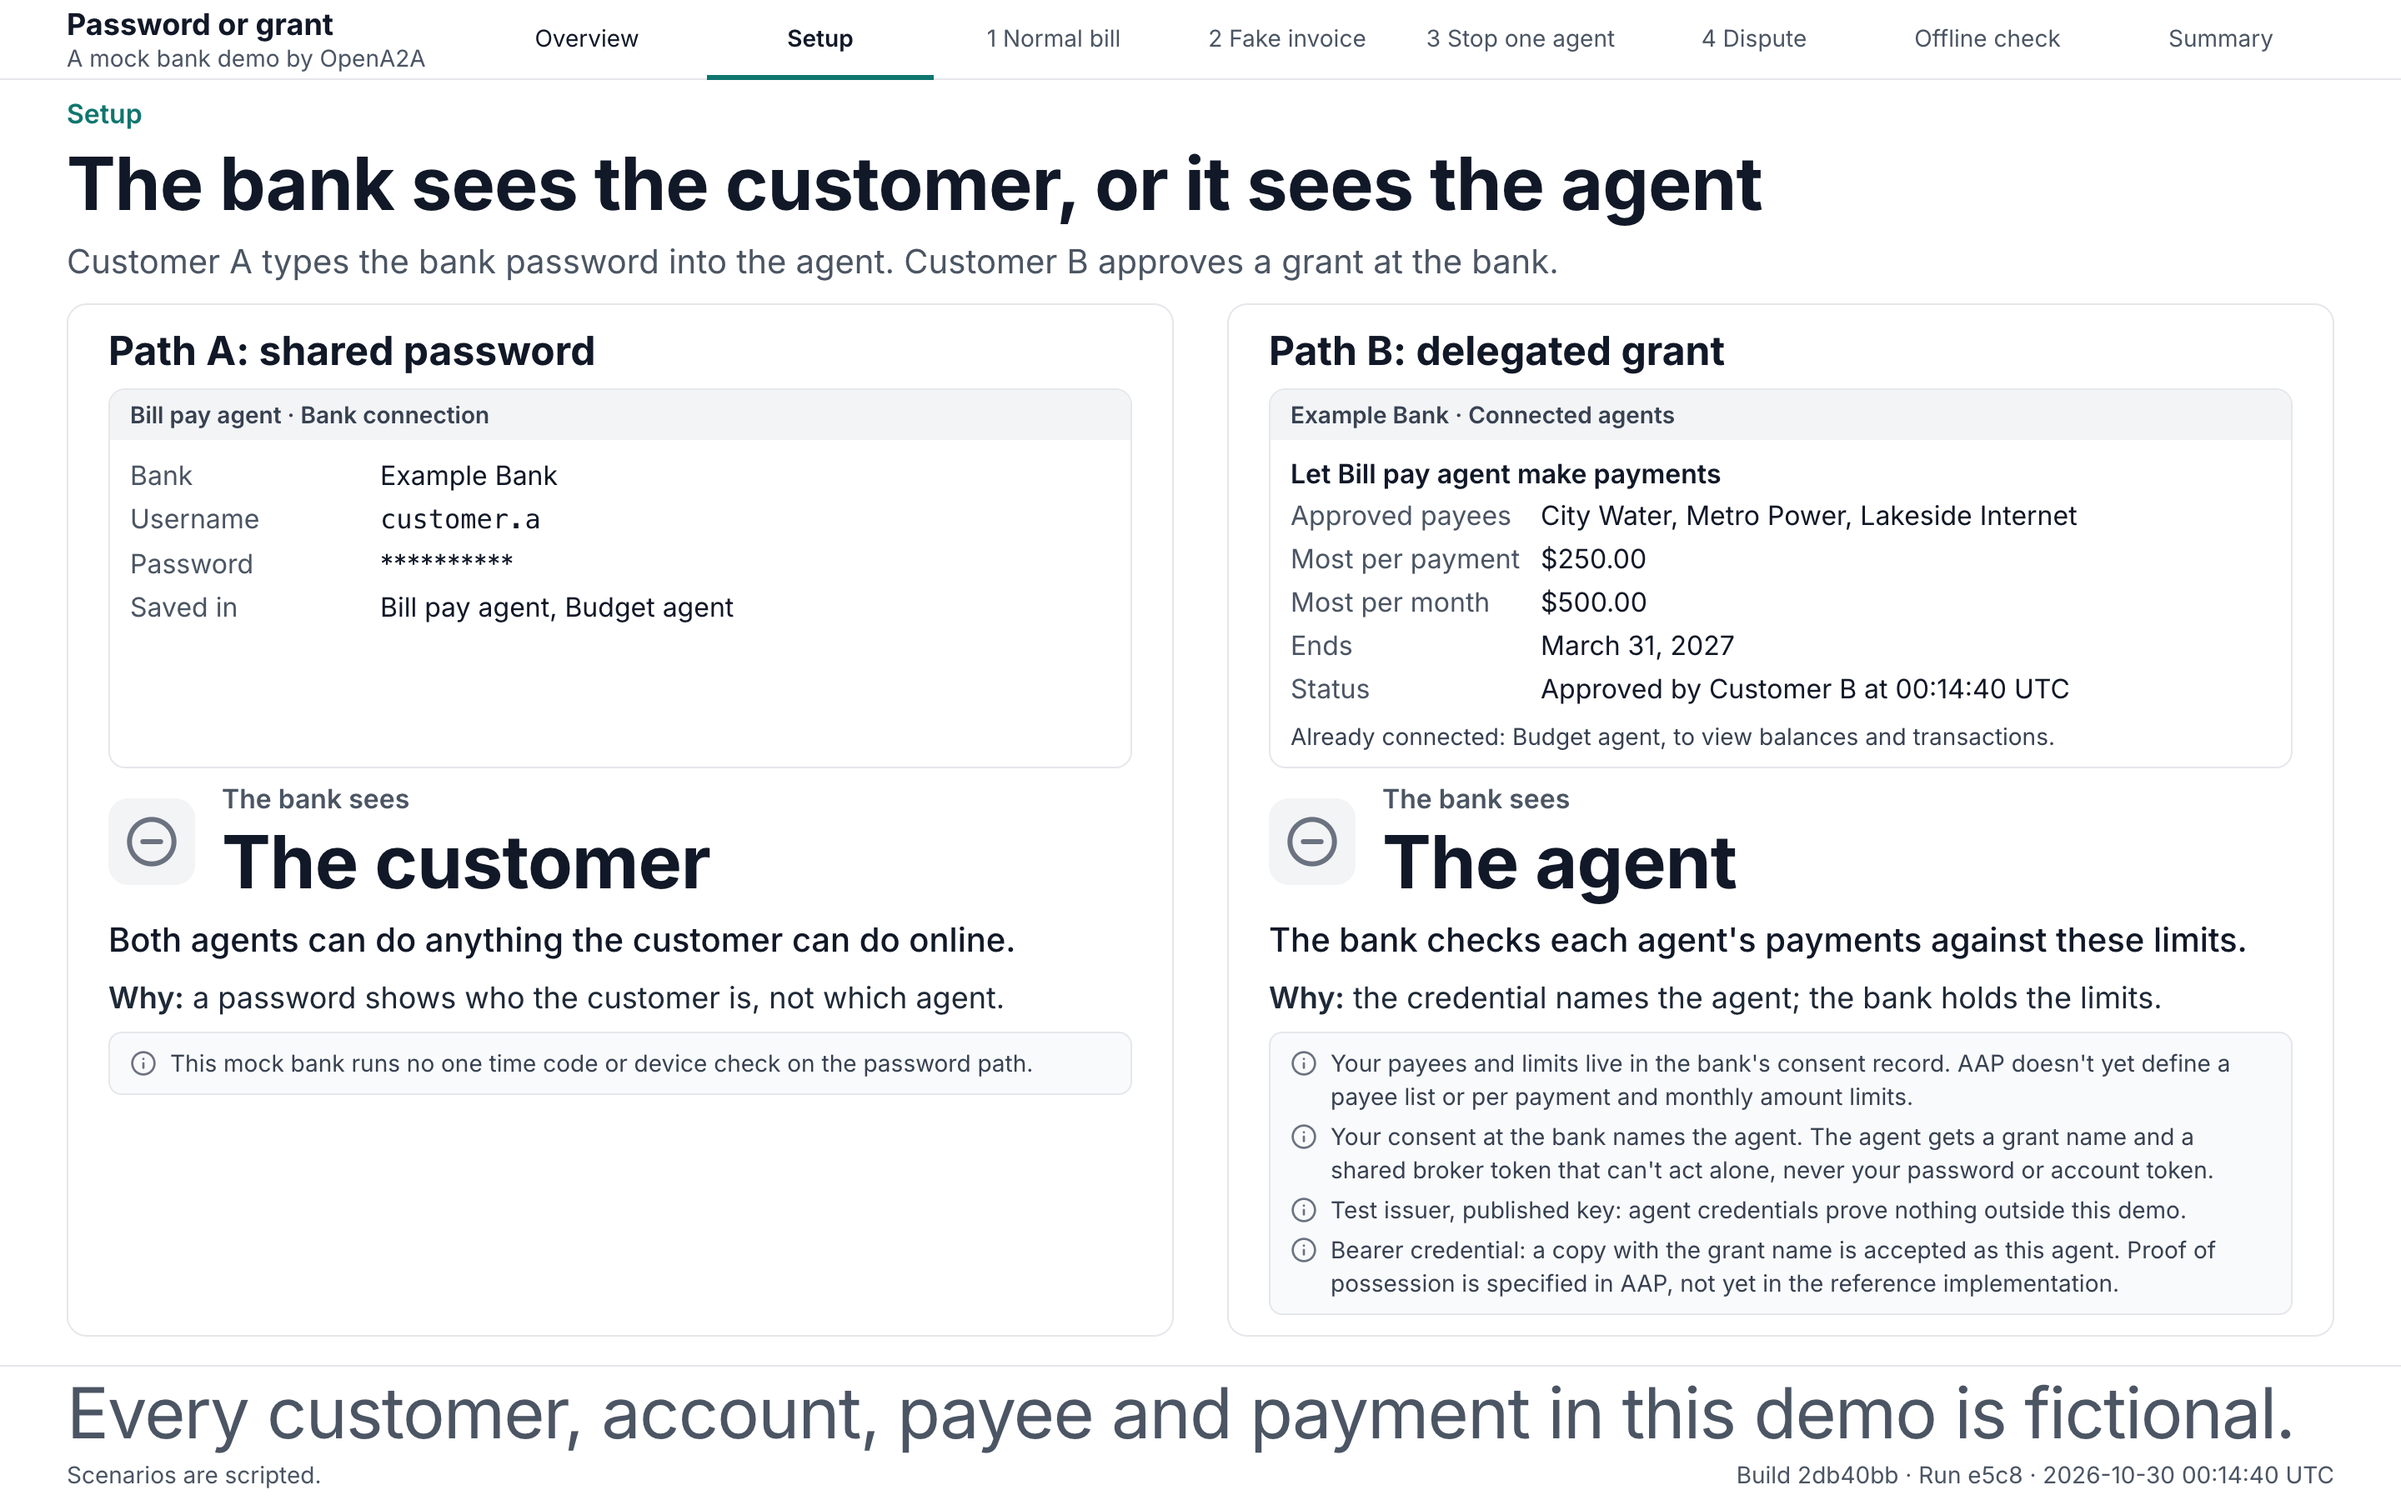
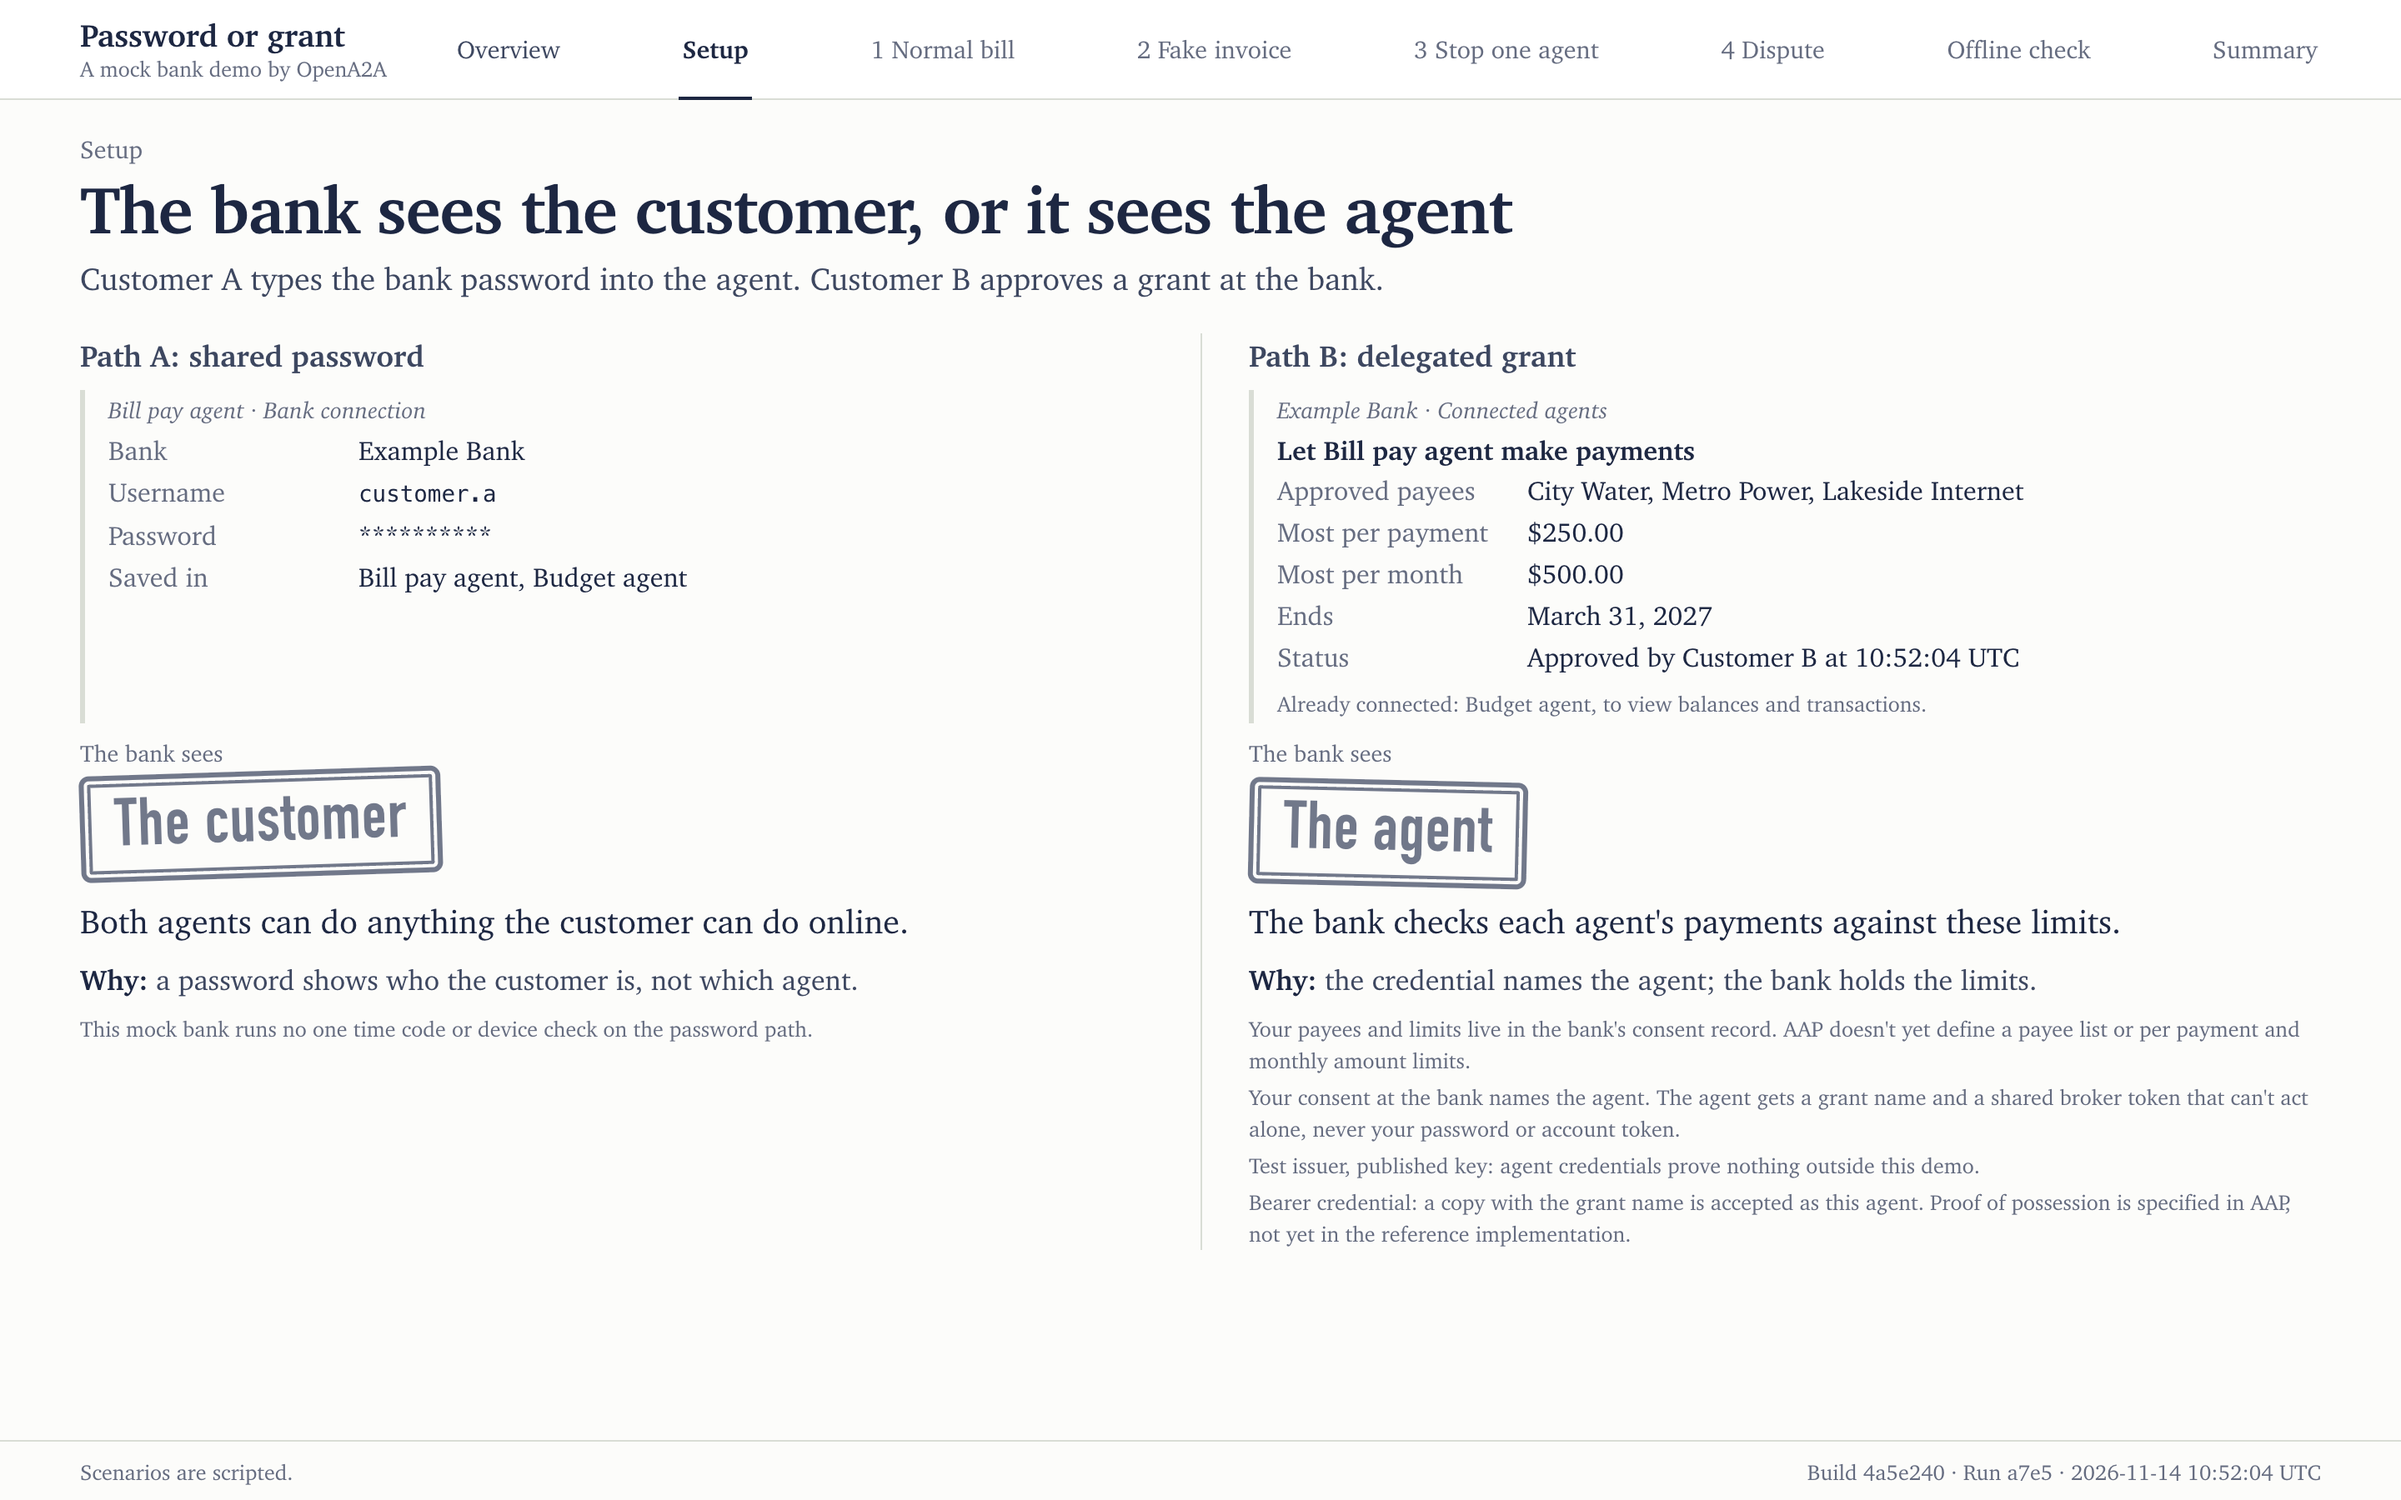
docs: retake the nine stills and the recording on the statement screens
The stills, the npm start capture, the Fake invoice GIF and its two caption
tracks are taken again by docs/demo/walkthrough.demo.mjs at commit 4a5e240,
2026-11-14, in Chrome 157.0.8103.51; every proof held. The README and
docs/walkthrough.md labels name that commit and date, the requirements line
names the machine and Chrome of this run, and the sidecar rows are rewritten
from the new sidecars.

diff --git a/docs/walkthrough.md b/docs/walkthrough.md
@@ -1,57 +1,57 @@
 # The walkthrough, screen by screen
 
-The nine screens of the walkthrough in presenter order. Every screen here was captured from this repository at commit 2db40bb, 2026-10-30, on the scripted Example Bank fixture, and the footer of each screen shows the same build. The README embeds three of them, and its section "Check each screen yourself" says how to take them again.
+The nine screens of the walkthrough in presenter order. Every screen here was captured from this repository at commit 4a5e240, 2026-11-14, on the scripted Example Bank fixture, and the footer of each screen shows the same build. The README embeds three of them, and its section "Check each screen yourself" says how to take them again.
 
 ## Overview
 
 ![Same agent, same bills, two ways into the bank. This mock bank runs one agent two ways: with the password, and with a grant the bank checks on every payment.](captures/00-overview.png)
 
-Captured on 2026-10-30 from agent-banking-delegation-demo at commit 2db40bb against the scripted Example Bank fixture.
+Captured on 2026-11-14 from agent-banking-delegation-demo at commit 4a5e240 against the scripted Example Bank fixture.
 
 ## Setup
 
 ![The bank sees the customer, or it sees the agent. Path A: The customer. Path B: The agent.](captures/01-setup.png)
 
-Captured on 2026-10-30 from agent-banking-delegation-demo at commit 2db40bb against the scripted Example Bank fixture.
+Captured on 2026-11-14 from agent-banking-delegation-demo at commit 4a5e240 against the scripted Example Bank fixture.
 
 ## Scenario 1, a normal bill
 
 ![A normal bill gets paid either way. Path A: Bill paid. Path B: Bill paid.](captures/02-scenario-1-normal-bill.png)
 
-Captured on 2026-10-30 from agent-banking-delegation-demo at commit 2db40bb against the scripted Example Bank fixture.
+Captured on 2026-11-14 from agent-banking-delegation-demo at commit 4a5e240 against the scripted Example Bank fixture.
 
 ## Scenario 2, a fake invoice
 
 ![With a grant, the bank blocks an unapproved payee. Path A: Paid the fake invoice. Path B: Payment blocked.](captures/03-scenario-2-fake-invoice.png)
 
-Captured on 2026-10-30 from agent-banking-delegation-demo at commit 2db40bb against the scripted Example Bank fixture.
+Captured on 2026-11-14 from agent-banking-delegation-demo at commit 4a5e240 against the scripted Example Bank fixture.
 
 ## Scenario 3, stopping one agent
 
 ![With a grant, the bank stops one agent, not all. Path A: Everyone signed out. Path B: One agent stopped.](captures/04-scenario-3-stop-one-agent.png)
 
-Captured on 2026-10-30 from agent-banking-delegation-demo at commit 2db40bb against the scripted Example Bank fixture.
+Captured on 2026-11-14 from agent-banking-delegation-demo at commit 4a5e240 against the scripted Example Bank fixture.
 
 ## Scenario 4, a disputed payment
 
 ![With a grant, the bank's record names the agent. Path A: No agent on record. Path B: Agent on record.](captures/05-scenario-4-dispute.png)
 
-Captured on 2026-10-30 from agent-banking-delegation-demo at commit 2db40bb against the scripted Example Bank fixture.
+Captured on 2026-11-14 from agent-banking-delegation-demo at commit 4a5e240 against the scripted Example Bank fixture.
 
 ## Offline check
 
 The image file is `captures/06-offline-check.png`. Its description: With OpenA2A unreachable, the bank still decides. Network open: Four decisions. Network blocked: Same four decisions.
 
-Captured on 2026-10-30 from agent-banking-delegation-demo at commit 2db40bb against the scripted Example Bank fixture.
+Captured on 2026-11-14 from agent-banking-delegation-demo at commit 4a5e240 against the scripted Example Bank fixture.
 
 ## Summary, opening screen
 
 ![What a bank needs before it can say yes. What each path gave the bank in the four scenarios.](captures/07-summary.png)
 
-Captured on 2026-10-30 from agent-banking-delegation-demo at commit 2db40bb against the scripted Example Bank fixture.
+Captured on 2026-11-14 from agent-banking-delegation-demo at commit 4a5e240 against the scripted Example Bank fixture.
 
 ## Summary, scrolled to the limits
 
 ![Where this demo stands. Example Bank is a mock bank.](captures/08-summary-limits.png)
 
-Captured on 2026-10-30 from agent-banking-delegation-demo at commit 2db40bb against the scripted Example Bank fixture.
+Captured on 2026-11-14 from agent-banking-delegation-demo at commit 4a5e240 against the scripted Example Bank fixture.

diff --git a/README.md b/README.md
@@ -13,7 +13,7 @@ This mock bank runs one agent two ways: with the password, and with a grant the 
 
 ## Run it yourself
 
-Requirements: macOS, git, Node.js 22.12.0 or later and a browser. Checked on macOS 26.6.2 arm64 with Node.js 26.12.1 in Chrome 156.0.8078.48, 2026-10-24.
+Requirements: macOS, git, Node.js 22.12.0 or later and a browser. Checked on macOS 26.4 arm64 with Node.js 22.20.0 in Chrome 157.0.8103.51, 2026-11-14.
 
 ```sh
 git clone https://github.com/opena2a-org/agent-delegation-demo
@@ -22,14 +22,14 @@ npm ci
 npm start
 ```
 
-What `npm start` prints (captured from agent-banking-delegation-demo at commit 2db40bb, 2026-10-30, on the scripted Example Bank fixture):
+What `npm start` prints (captured from agent-banking-delegation-demo at commit 4a5e240, 2026-11-14, on the scripted Example Bank fixture):
 
 ```text
 
 > agent-banking-delegation-demo@0.1.0 start
 > node bin/start.mjs
 
-Agent banking delegation demo, build 2db40bb
+Agent banking delegation demo, build 4a5e240
 Ready. Open http://127.0.0.1:7380/ in a browser.
 Press Ctrl+C to stop.
 ```
@@ -38,23 +38,23 @@ The repository's `.npmrc` tells npm commands run in this directory to refuse a N
 
 ## The walkthrough
 
-Every demo screen shown here was captured from this repository at commit [2db40bb](https://github.com/opena2a-org/agent-delegation-demo/commit/2db40bbca4a8c83267bcfc4e7a56fcc4e0f67282), 2026-10-30, on the scripted Example Bank fixture. The footer of each screen shows the same build.
+Every demo screen shown here was captured from this repository at commit [4a5e240](https://github.com/opena2a-org/agent-delegation-demo/commit/4a5e2406b07cb34e9895d59fc305bf7570a8f2a3), 2026-11-14, on the scripted Example Bank fixture. The footer of each screen shows the same build.
 
 ![Same agent, same bills, two ways into the bank. This mock bank runs one agent two ways: with the password, and with a grant the bank checks on every payment.](docs/captures/00-overview.png)
 
-Captured on 2026-10-30 from agent-banking-delegation-demo at commit 2db40bb against the scripted Example Bank fixture.
+Captured on 2026-11-14 from agent-banking-delegation-demo at commit 4a5e240 against the scripted Example Bank fixture.
 
 ![With a grant, the bank blocks an unapproved payee. Path A: Paid the fake invoice. Path B: Payment blocked.](docs/captures/03-scenario-2-fake-invoice.png)
 
-Captured on 2026-10-30 from agent-banking-delegation-demo at commit 2db40bb against the scripted Example Bank fixture.
+Captured on 2026-11-14 from agent-banking-delegation-demo at commit 4a5e240 against the scripted Example Bank fixture.
 
 ![With a grant, the bank's record names the agent. Path A: No agent on record. Path B: Agent on record.](docs/captures/05-scenario-4-dispute.png)
 
-Captured on 2026-10-30 from agent-banking-delegation-demo at commit 2db40bb against the scripted Example Bank fixture.
+Captured on 2026-11-14 from agent-banking-delegation-demo at commit 4a5e240 against the scripted Example Bank fixture.
 
-![Fake invoice chapter of the agent-banking-delegation-demo walkthrough, recorded at commit 2db40bb, 2026-10-30. With the password the fake invoice is paid; with the grant the bank refuses the unapproved payee.](docs/captures/walkthrough-fake-invoice.gif)
+![Fake invoice chapter of the agent-banking-delegation-demo walkthrough, recorded at commit 4a5e240, 2026-11-14. With the password the fake invoice is paid; with the grant the bank refuses the unapproved payee.](docs/captures/walkthrough-fake-invoice.gif)
 
-Recorded on 2026-10-30 from agent-banking-delegation-demo at commit 2db40bb against the scripted Example Bank fixture; the Fake invoice chapter of the walkthrough; waits shortened.
+Recorded on 2026-11-14 from agent-banking-delegation-demo at commit 4a5e240 against the scripted Example Bank fixture; the Fake invoice chapter of the walkthrough; waits shortened.
 
 All nine screens, each with its caption: [docs/walkthrough.md](docs/walkthrough.md).
 
